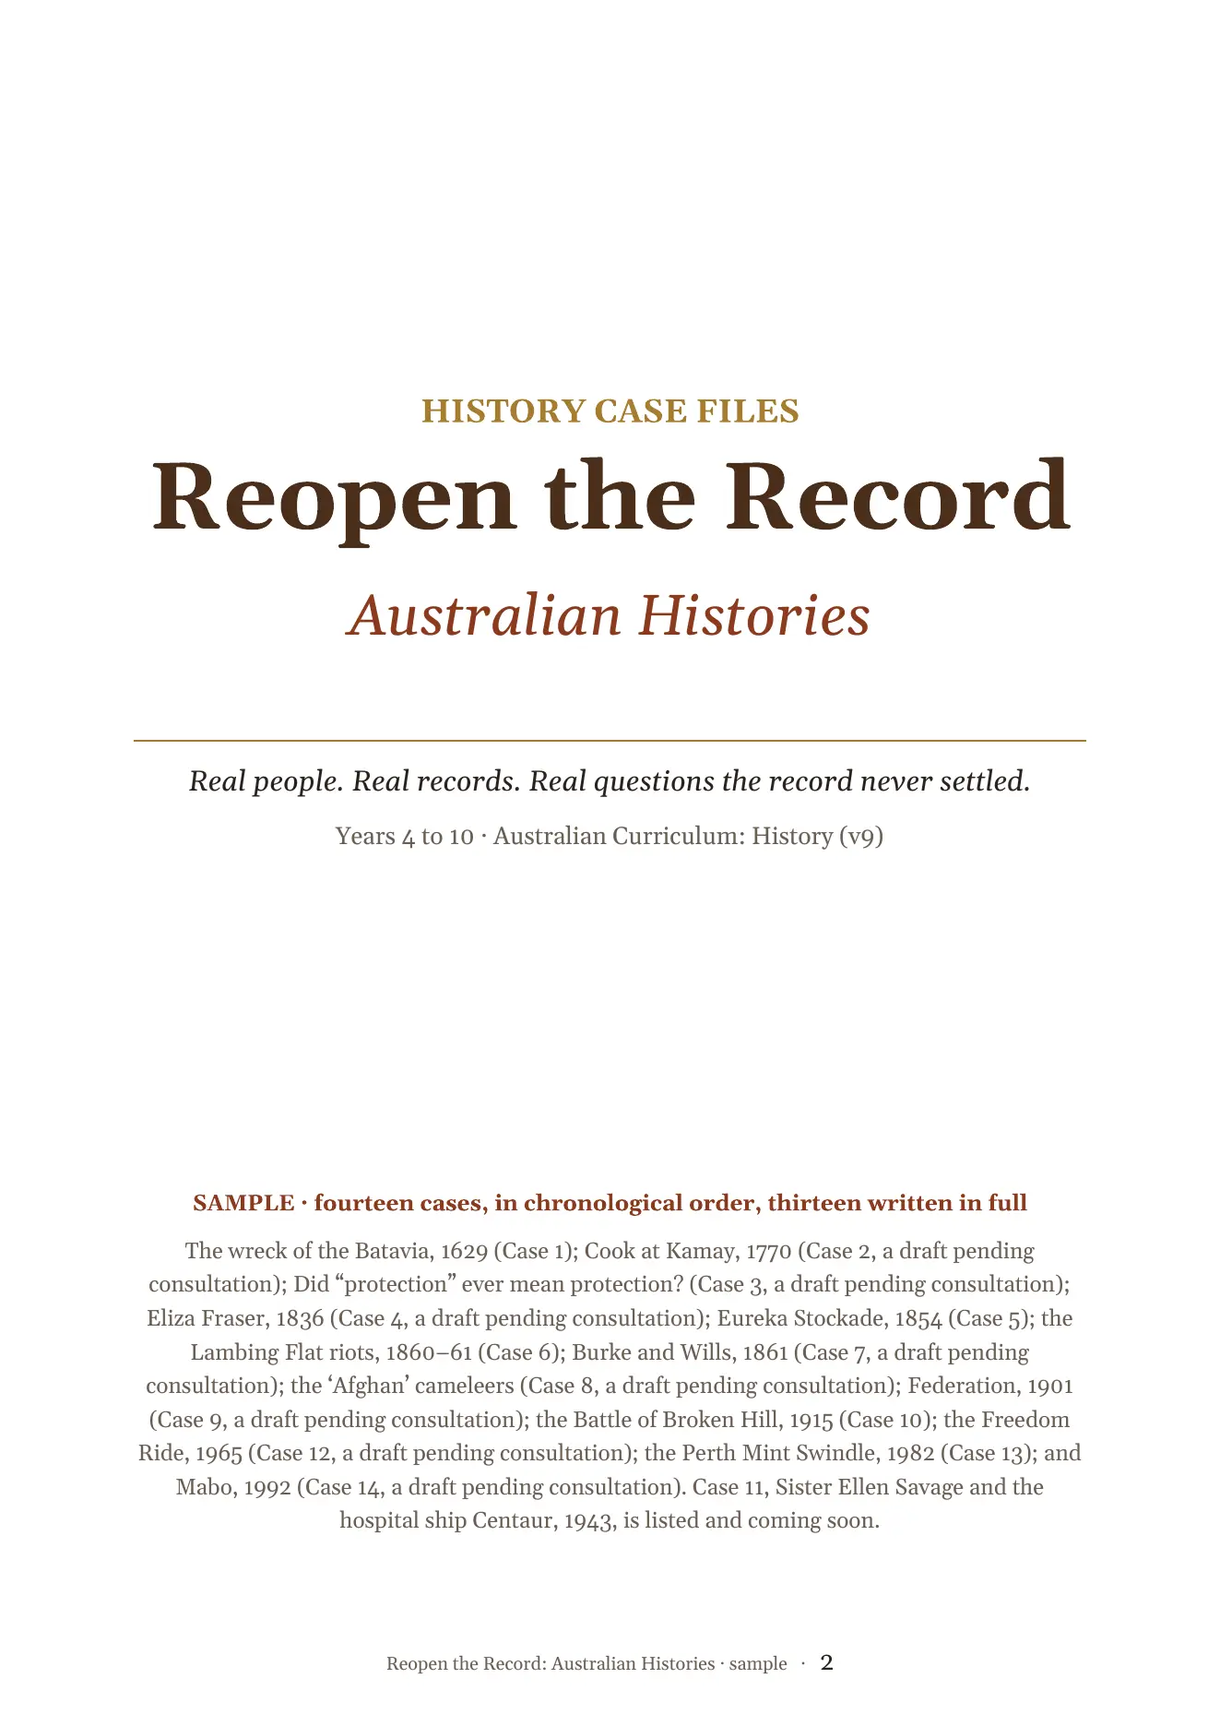
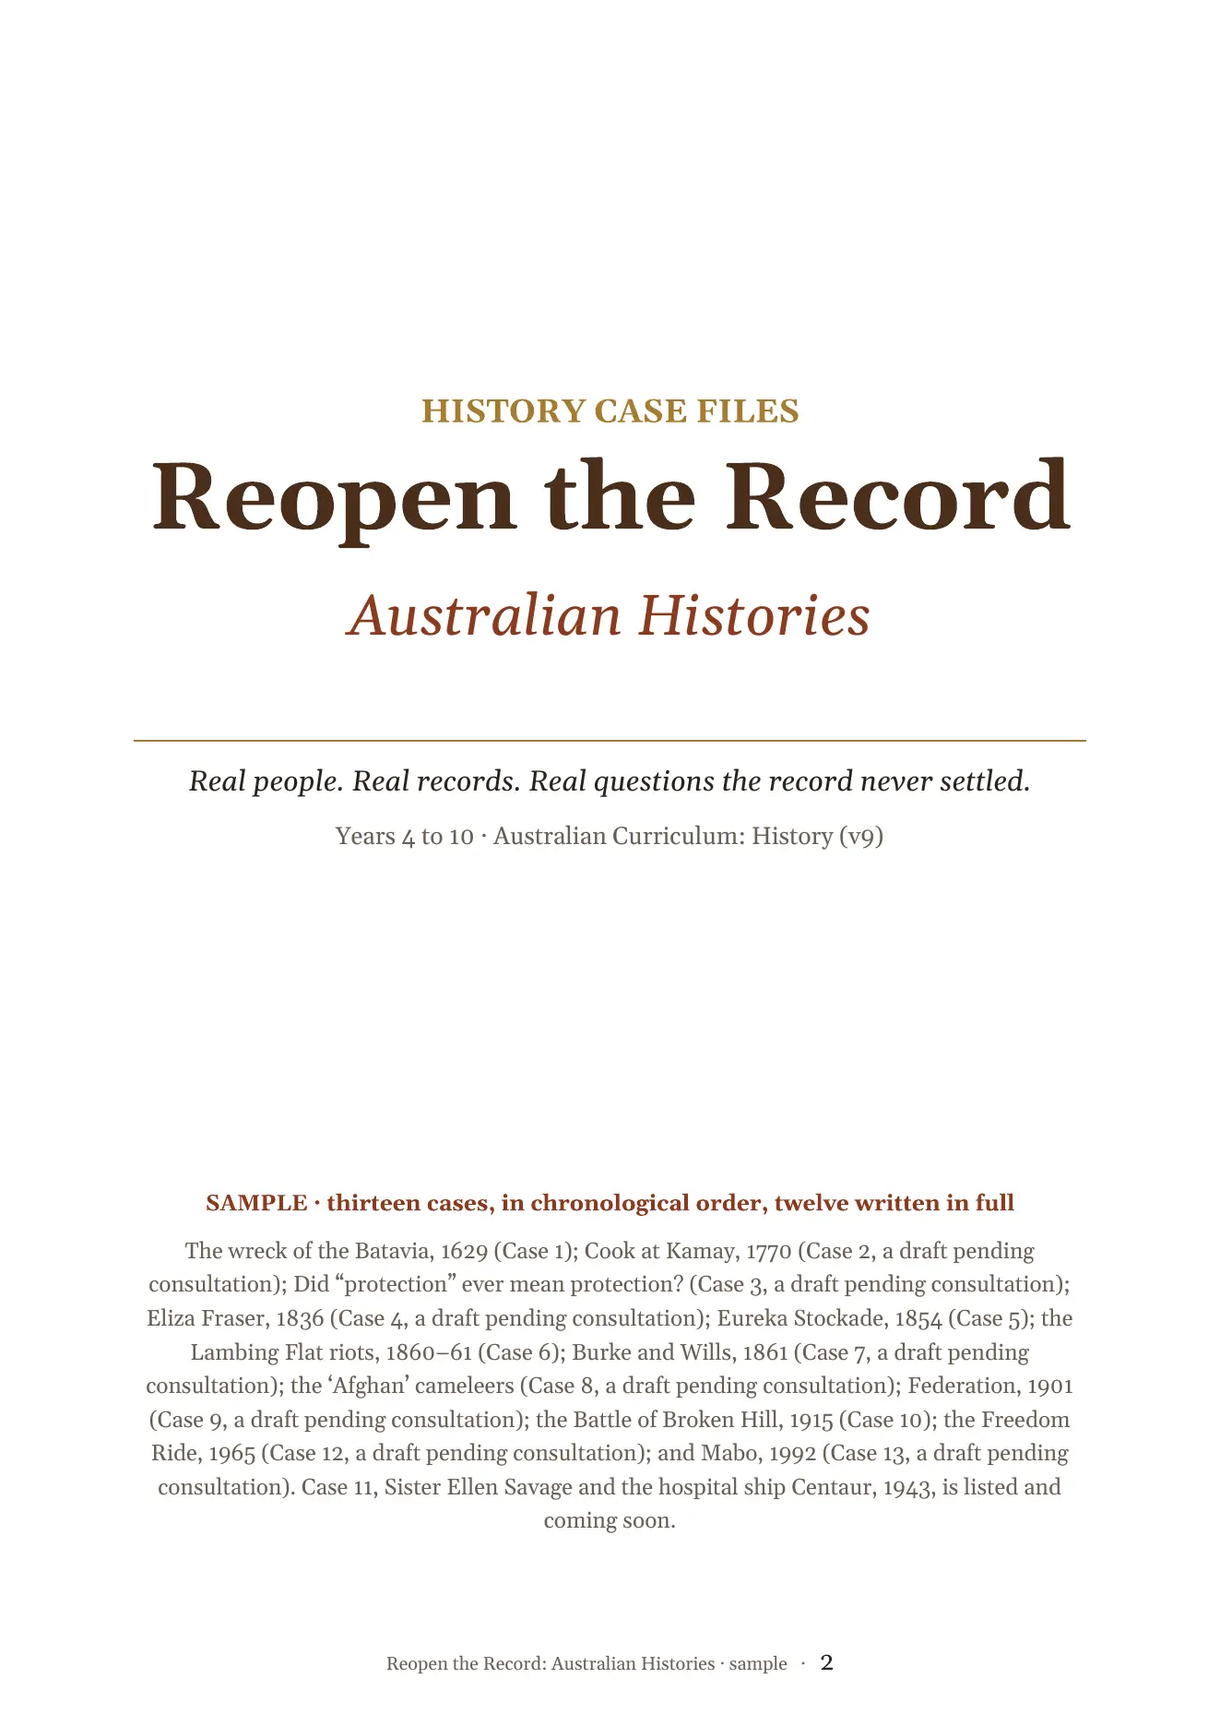
Remove the Perth Mint case from the sample book and renumber Mabo as Case 13.
The Mint app and its live site are left untouched. #case=14 and #case=44 both open Mabo. Not published.

Changed region(s): [[0.124, 0.837, 0.8677, 0.899], [0.155, 0.682, 0.8367, 0.713]]

diff --git a/assets/data.js b/assets/data.js
@@ -2,7 +2,7 @@
 window.BOOK = {
   "bookTitle": "Reopen the Record: Australian Histories",
   "tagline": "Real people. Real records. Real questions the record never settled.",
-  "pageCount": 187,
+  "pageCount": 173,
   "startHere": {
     "title": "Start here: In Case of Emergency",
     "page": 7,
@@ -296,9 +296,9 @@ window.BOOK = {
     ],
     "13": [
       {
-        "id": "perth-mint-case",
-        "label": "Perth Mint case",
-        "url": "https://robmac10.github.io/perth-mint-case/",
+        "id": "mabo-case",
+        "label": "Mabo case",
+        "url": "https://robmac10.github.io/mabo-case/",
         "pages": [
           161,
           162,
@@ -312,31 +312,7 @@ window.BOOK = {
           170,
           171,
           172,
-          173,
-          174
-        ],
-        "blurb": "Open the Perth Mint case as an interactive book."
-      }
-    ],
-    "14": [
-      {
-        "id": "mabo-case",
-        "label": "Mabo case",
-        "url": "https://robmac10.github.io/mabo-case/",
-        "pages": [
-          175,
-          176,
-          177,
-          178,
-          179,
-          180,
-          181,
-          182,
-          183,
-          184,
-          185,
-          186,
-          187
+          173
         ],
         "blurb": "Open the Mabo case as an interactive book."
       }
@@ -867,20 +843,22 @@ window.BOOK = {
         10
       ],
       "yearLabel": "Year 10",
-      "title": "The Perth Mint Swindle, 1982",
-      "question": "What can the records prove?",
-      "codes": "AC9HH10K20",
+      "title": "Mabo and terra nullius, 1982–1992",
+      "question": "Was Australia ever really treated as ‘nobody’s land’?",
+      "codes": "AC9HH10K10, AC9HH10K11, AC9HH10K13",
       "status": "Written",
-      "tags": [],
-      "date": "22 June 1982",
+      "tags": [
+        "First Nations: needs consultation"
+      ],
+      "date": "3 June 1992",
       "written": true,
       "start": 161,
-      "end": 174,
+      "end": 173,
       "apps": [
         {
-          "id": "perth-mint-case",
-          "label": "Perth Mint case",
-          "url": "https://robmac10.github.io/perth-mint-case/",
+          "id": "mabo-case",
+          "label": "Mabo case",
+          "url": "https://robmac10.github.io/mabo-case/",
           "pages": [
             161,
             162,
@@ -894,66 +872,22 @@ window.BOOK = {
             170,
             171,
             172,
-            173,
-            174
-          ],
-          "blurb": "Open the Perth Mint case as an interactive book."
-        }
-      ],
-      "envelope": 161
-    },
-    {
-      "num": 14,
-      "year": 10,
-      "years": [
-        10
-      ],
-      "yearLabel": "Year 10",
-      "title": "Mabo and terra nullius, 1982–1992",
-      "question": "Was Australia ever really treated as ‘nobody’s land’?",
-      "codes": "AC9HH10K10, AC9HH10K11, AC9HH10K13",
-      "status": "Written",
-      "tags": [
-        "First Nations: needs consultation"
-      ],
-      "date": "3 June 1992",
-      "written": true,
-      "start": 175,
-      "end": 187,
-      "apps": [
-        {
-          "id": "mabo-case",
-          "label": "Mabo case",
-          "url": "https://robmac10.github.io/mabo-case/",
-          "pages": [
-            175,
-            176,
-            177,
-            178,
-            179,
-            180,
-            181,
-            182,
-            183,
-            184,
-            185,
-            186,
-            187
+            173
           ],
           "blurb": "Open the Mabo case as an interactive book."
         }
       ],
-      "envelope": 175
+      "envelope": 161
     }
   ],
   "qr": "assets/qr-book.png",
   "url": "https://robmac10.github.io/reopen-the-record/",
   "pageAlts": {
     "1": "Book cover: a manila exhibit envelope titled Reopen the Record: Australian Histories, Years 4 to 10, stamped Case Reopened, with an exhibit tag reading Sample Cases, and year-level tabs along the right edge.",
-    "2": "Title page. Reopen the Record: Australian Histories. History case files, Years 4 to 10. Sample: fourteen cases in chronological order, thirteen written in full.",
+    "2": "Title page. Reopen the Record: Australian Histories. History case files, Years 4 to 10. Sample: thirteen cases in chronological order, twelve written in full.",
     "3": "Page 3. How a case file works: every case is a real event, with witnesses, a finding, and optional Super Sleuths.",
-    "4": "Page 4. Printed contents: fourteen cases in chronological order, with the list beginning on this page.",
-    "5": "Page 5. Printed contents continued: cases 3 to 14, including Case 11, the hospital ship Centaur, which is listed and not yet written.",
+    "4": "Page 4. Printed contents: thirteen cases in chronological order, with the list beginning on this page.",
+    "5": "Page 5. Printed contents continued: cases 4 to 13, including Case 11, the hospital ship Centaur, which is listed and not yet written.",
     "6": "Page 6. By year level index for Years 4 to 10, with case numbers and Australian Curriculum v9 codes.",
     "7": "Page 7. Case 1, Year 4. Start here: In Case of Emergency. A story-map of a locked museum and a QR code for the escape room.",
     "8": "Page 8. Case 1. A full-page illustration or envelope from the casebook.",
@@ -1110,32 +1044,18 @@ window.BOOK = {
     "159": "Page 159. Case 12. same year, and is acknowledged as the first Aboriginal woman to complete an Australian university degree. Valadian is living: no dates on the student pages. The graduation claim is omitted from the student card. A misattributed quotation. The source draft gave Ann Curthoys the li",
     "160": "Page 160. Case 12. methods in the movement for the civil rights of First Nations Australians, and the extent to which they contributed to change. Skills of use include comparing perspectives in sources and analysing contested interpretations. Primary and near-primary. Ann Curthoys, diary of the 196",
     "161": "Page 161. Case 13. A full-page illustration or envelope from the casebook.",
-    "162": "Page 162. Case 13. Perth, 1989 A gold bar is sent to a television station, to a reporter on the news desk. A note comes with it. The Mickelbergs are innocent and rotting in jail. The bar is heavy. The sentence is short. The convictions have not moved. Reopen the Record: Australian Histories · sampl",
-    "163": "Page 163. Case 13. CASE 13 · YEAR 10 Read the 1989 page as an interactive book Open the case on a tablet or phone. It is the same 1989 page you have just read, as an interactive book. robmac10.github.io/perth-mint-case Scan to open Then turn the page and open the case file. Reopen the Record: Austr",
-    "164": "Page 164. Case 13. CASE 13 · YEAR 10 · READ What can the records prove? The Perth Mint Swindle, 1982 This file names living people. It does not say that any living person committed the swindle, or fabricated evidence. Attribute every claim. The 2004 court quashed the convictions. It did not decide",
-    "165": "Page 165. Case 13. The majority was Malcolm CJ and Steytler J. Murray J dissented. The court found a substantial miscarriage of justice. It did not decide who obtained the gold. No one has been convicted of the swindle since. In December 2007, the WA Police Commissioner, Karl O’Callaghan, issued a",
-    "166": "Page 166. Case 13. Ray and Peter Mickelberg The two brothers whose 1983 convictions were quashed in 2004 · Living — no dates given here Their own accounts, from arrest through the appeals and after the convictions were quashed. Source. Public statements and evidence over many years, including accou",
-    "167": "Page 167. Case 13. The Court of Criminal Appeal (WA) Mickelberg v The Queen [2004] WASCA 145 · 2 July 2004 The court’s published reasons, on an Attorney-General’s reference of the whole case, heard as if it were an appeal. Source. Mickelberg v The Queen [2004] WASCA 145 (Malcolm CJ, Murray J, Steyt",
-    "168": "Page 168. Case 13. My finding CASE 13 · YEAR 10 The three witness cards on the last pages are Ray and Peter Mickelberg, Tony Lewandowski, and the Court of Criminal Appeal. Further people and claims — including Brian Mickelberg, Alison Fan, Don Hancock, and later allegations about a fingerprint — ar",
-    "169": "Page 169. Case 13. CASE 13 · YEAR 10 · SUPER SLEUTHS Super Sleuths Go further only if you want to. Amber marks what is still disputed, or what later writers added. Do not treat a later allegation as if the 2004 court had found it. Living people are not given dates here. Open these investigations in",
-    "170": "Page 170. Case 13. (including the Sydney Morning Herald, 11 June 2002) and as considered by the 2004 court, he said the notes of interview dated 26 July 1982 were fabricated after 2 September 1982, and that evidence given about those notes was false. He is also reported as swearing that he had told",
-    "171": "Page 171. Case 13. his convictions were quashed on 4 November 1983. A 2023 ABC feature says his sentence was “cut to eight months.” Those two wordings are not the same. This file does not silently choose the neater one. Brian died in a plane crash in 1986. He was not a petitioner in the 2004 appeal",
-    "172": "Page 172. Case 13. Teacher Note CASE 13 · YEAR 10 · TEACHER NOTE This file names living people. It does not say that any living person committed the swindle, or fabricated evidence. Attribute every claim. The 2004 court quashed the convictions. It did not decide who obtained the gold. No one has be",
-    "173": "Page 173. Case 13. (including Ray and Peter Mickelberg, and others still living) get no dates and no photographs. Silhouettes are used, and are labelled as silhouettes, not likenesses. The court card is a scales symbol, not a judge’s portrait. Tony Lewandowski’s 2002 affidavit is a source the 2004",
-    "174": "Page 174. Case 13. student finding that names a living person as the offender, or as a fabricator, unless that student is quoting a court that has actually found it. The Yellow Rose of Texas / Alan Bond material, if discussed at all, stays in Super Sleuths as a separate matter, not as proof of the",
-    "175": "Page 175. Case 14. A full-page illustration or envelope from the casebook.",
-    "176": "Page 176. Case 14. History. Last period. The photocopy is dated 3 June 1992 They keep saying terra nullius like it’s a spell they already broke. I wrote it in my book and then I looked at the date. 3 June 1992. He was already dead. The first sheet is a man on Mer saying his father told him the land",
-    "177": "Page 177. Case 14. CASE 14 · YEAR 10 · MABO AND TERRA NULLIUS, 1982–1992 Read the notebook as an interactive book Open the case on a tablet or phone. It is the same typographic notebook, the same three witnesses, and the same finding box. The QR uses an island emblem at the centre. robmac10.github.",
-    "178": "Page 178. Case 14. A NOTE BEFORE YOU READ This case names Torres Strait Islander people who have died, including Eddie Koiki Mabo (died 21 January 1992). Draft, pending consultation with the Meriam people of Mer, and with AIATSIS guidance. No photograph of Eddie Koiki Mabo is used. A note for teach",
-    "179": "Page 179. Case 14. terra nullius.” Historians and some lawyers debate when the Latin phrase itself was first used in Australian law, and whether earlier official language used other words for a similar idea. That debate is flagged, not settled, in this file. The Native Title Act 1993 (Cth) followed",
-    "180": "Page 180. Case 14. Three witnesses CASE 14 · YEAR 10 · MABO AND TERRA NULLIUS, 1982–1992 · ASK Each witness is a real person, or a real set of words from the record. A period portrait is used where one exists and is free to reuse. Otherwise you will see a plain silhouette, not a likeness. Ask the s",
-    "181": "Page 181. Case 14. Justice Brennan Justice of the High Court of Australia · leading reasons in Mabo (No 2), 3 June 1992 A written judgment, not a speech from the street. What they said Brennan J wrote that “the fiction by which the rights and interests of indigenous inhabitants in land were treated",
-    "182": "Page 182. Case 14. The State of Queensland Defendant in the Mabo litigation · Parliament of Queensland, 1985 The government’s case, in the words of a statute passed while the Meriam claim was already before the courts. What they said The long title was “An Act to allay any doubts that may exist con",
-    "183": "Page 183. Case 14. My finding CASE 14 · YEAR 10 · MABO AND TERRA NULLIUS, 1982–1992 · DECIDE The three witness cards are Eddie Koiki Mabo, Justice Brennan, and the State of Queensland, speaking through the 1985 Act. There is no answer at the back. The narrator of the notebook is invented. The quote",
-    "184": "Page 184. Case 14. CASE 14 · YEAR 10 · MABO AND TERRA NULLIUS, 1982–1992 · SUPER SLEUTHS Super Sleuths Go further only if you want to. Amber marks what is still disputed, or what later writers added. This file is a draft, pending consultation with the Meriam people of Mer, and with AIATSIS guidance",
-    "185": "Page 185. Case 14. STILL IN DISPUTE, OR ADDED LATER 4. What the 1992 orders did, and did not do The Court recognised native title, and Meriam rights in most of the Murray Islands, subject to some particular Crown interests. The Native Title Act 1993 followed. This file does not pretend the decision",
-    "186": "Page 186. Case 14. CASE 14 · YEAR 10 · MABO AND TERRA NULLIUS, 1982–1992 · TEACHER Teacher Note NOTE This note is for the teacher. It is not a student page. The user’s name is kept off the student pages and off the app. What’s true about the opener The narrator is an invented Year 10 student. The q",
-    "187": "Page 187. Case 14. robmac10.github.io/mabo-case Super Sleuths: robmac10.github.io/mabo-case/#sleuth Mabo v Queensland (No 2) [1992] HCA 23; Mabo (No 1) [1988] HCA 69; Queensland Coast Islands Declaratory Act 1985; AIATSIS, “The Mabo Case”; National Museum of Australia, “Mabo decision”; Trevor Graha"
+    "162": "Page 162. Case 13. History. Last period. The photocopy is dated 3 June 1992 They keep saying terra nullius like it’s a spell they already broke. I wrote it in my book and then I looked at the date. 3 June 1992. He was already dead. The first sheet is a man on Mer saying his father told him the land",
+    "163": "Page 163. Case 13. CASE 13 · YEAR 10 · MABO AND TERRA NULLIUS, 1982–1992 Read the notebook as an interactive book Open the case on a tablet or phone. It is the same typographic notebook, the same three witnesses, and the same finding box. The QR uses an island emblem at the centre. robmac10.github.",
+    "164": "Page 164. Case 13. A NOTE BEFORE YOU READ This case names Torres Strait Islander people who have died, including Eddie Koiki Mabo (died 21 January 1992). Draft, pending consultation with the Meriam people of Mer, and with AIATSIS guidance. No photograph of Eddie Koiki Mabo is used. A note for teach",
+    "165": "Page 165. Case 13. terra nullius.” Historians and some lawyers debate when the Latin phrase itself was first used in Australian law, and whether earlier official language used other words for a similar idea. That debate is flagged, not settled, in this file. The Native Title Act 1993 (Cth) followed",
+    "166": "Page 166. Case 13. Three witnesses CASE 13 · YEAR 10 · MABO AND TERRA NULLIUS, 1982–1992 · ASK Each witness is a real person, or a real set of words from the record. A period portrait is used where one exists and is free to reuse. Otherwise you will see a plain silhouette, not a likeness. Ask the s",
+    "167": "Page 167. Case 13. Justice Brennan Justice of the High Court of Australia · leading reasons in Mabo (No 2), 3 June 1992 A written judgment, not a speech from the street. What they said Brennan J wrote that “the fiction by which the rights and interests of indigenous inhabitants in land were treated",
+    "168": "Page 168. Case 13. The State of Queensland Defendant in the Mabo litigation · Parliament of Queensland, 1985 The government’s case, in the words of a statute passed while the Meriam claim was already before the courts. What they said The long title was “An Act to allay any doubts that may exist con",
+    "169": "Page 169. Case 13. My finding CASE 13 · YEAR 10 · MABO AND TERRA NULLIUS, 1982–1992 · DECIDE The three witness cards are Eddie Koiki Mabo, Justice Brennan, and the State of Queensland, speaking through the 1985 Act. There is no answer at the back. The narrator of the notebook is invented. The quote",
+    "170": "Page 170. Case 13. CASE 13 · YEAR 10 · MABO AND TERRA NULLIUS, 1982–1992 · SUPER SLEUTHS Super Sleuths Go further only if you want to. Amber marks what is still disputed, or what later writers added. This file is a draft, pending consultation with the Meriam people of Mer, and with AIATSIS guidance",
+    "171": "Page 171. Case 13. STILL IN DISPUTE, OR ADDED LATER 4. What the 1992 orders did, and did not do The Court recognised native title, and Meriam rights in most of the Murray Islands, subject to some particular Crown interests. The Native Title Act 1993 followed. This file does not pretend the decision",
+    "172": "Page 172. Case 13. CASE 13 · YEAR 10 · MABO AND TERRA NULLIUS, 1982–1992 · TEACHER Teacher Note NOTE This note is for the teacher. It is not a student page. The user’s name is kept off the student pages and off the app. What’s true about the opener The narrator is an invented Year 10 student. The q",
+    "173": "Page 173. Case 13. robmac10.github.io/mabo-case Super Sleuths: robmac10.github.io/mabo-case/#sleuth Mabo v Queensland (No 2) [1992] HCA 23; Mabo (No 1) [1988] HCA 69; Queensland Coast Islands Declaratory Act 1985; AIATSIS, “The Mabo Case”; National Museum of Australia, “Mabo decision”; Trevor Graha"
   },
   "pageCases": {
     "1": null,
@@ -1310,30 +1230,16 @@ window.BOOK = {
     "170": 13,
     "171": 13,
     "172": 13,
-    "173": 13,
-    "174": 13,
-    "175": 14,
-    "176": 14,
-    "177": 14,
-    "178": 14,
-    "179": 14,
-    "180": 14,
-    "181": 14,
-    "182": 14,
-    "183": 14,
-    "184": 14,
-    "185": 14,
-    "186": 14,
-    "187": 14
+    "173": 13
   },
   "legacyCases": {
     "23": 4,
     "24": 2,
     "35": 11,
     "37": 12,
-    "41": 13,
     "42": 1,
     "43": 3,
-    "44": 14
+    "14": 13,
+    "44": 13
   }
 };

diff --git a/index.html b/index.html
@@ -67,7 +67,7 @@
         <div class="contents-intro">
           <p class="kicker">Years 4 to 10 · Australian Curriculum: History (v9)</p>
           <h1 id="contents-title">Contents</h1>
-          <p>This sample lists fourteen cases in chronological order of the event, numbered 1 to 14. Thirteen are written in full. Case 11, Sister Ellen Savage and the hospital ship <em>Centaur</em>, is listed and not yet written. Written sample cases open in the reader. Coming-soon cases are marked as such. A printed by-year-level index is on <a href="#p=6">page 6</a>. Older <code>#case=</code> links still resolve where the old number does not collide with the new list.</p>
+          <p>This sample lists thirteen cases in chronological order of the event, numbered 1 to 13. Twelve are written in full. Case 11, Sister Ellen Savage and the hospital ship <em>Centaur</em>, is listed and not yet written. Written sample cases open in the reader. Coming-soon cases are marked as such. A printed by-year-level index is on <a href="#p=6">page 6</a>. Older <code>#case=</code> links still resolve where the old number does not collide with the new list: <code>#case=14</code> and <code>#case=44</code> both open Mabo, now Case 13.</p>
           <p class="note"><a href="#p=3">How a case file works</a> · <a href="#p=4">Printed contents</a> · <a href="#p=6">By year level</a></p>
         </div>
         <div id="contents-list"><!-- filled by app.js --></div>

diff --git a/README.md b/README.md
@@ -1,14 +1,14 @@
 # Reopen the Record: Australian Histories
 
-A static, mobile-friendly web app for the 187-page sample book.
+A static, mobile-friendly web app for the sample book.
 Open `index.html` from this folder, or serve the directory.
 
 Intended address (not published from this copy):
 https://robmac10.github.io/reopen-the-record/
 
-- Cover and contents (fourteen cases in chronological order, also grouped by year level; Case 8 appears under Year 5 and Year 6)
+- Cover and contents (thirteen cases in chronological order, also grouped by year level; Case 8 appears under Year 5 and Year 6)
 - Page-turning reader of the book pages, with a text view
-- Deep links such as `#p=7` (Start here) and `#case=1`. Older `#case` numbers that do not collide with 1–14 still redirect (for example `#case=42` opens Case 1).
+- Deep links such as `#p=7` (Start here) and `#case=1`. Older `#case` numbers that do not collide with 1–13 still redirect (for example `#case=42` opens Case 1; `#case=14` and `#case=44` both open Mabo, now Case 13).
 - Live links to each written case’s app
 
 Keep personal names off the published pages. Do not create a remote repository unless you are asked to publish.
